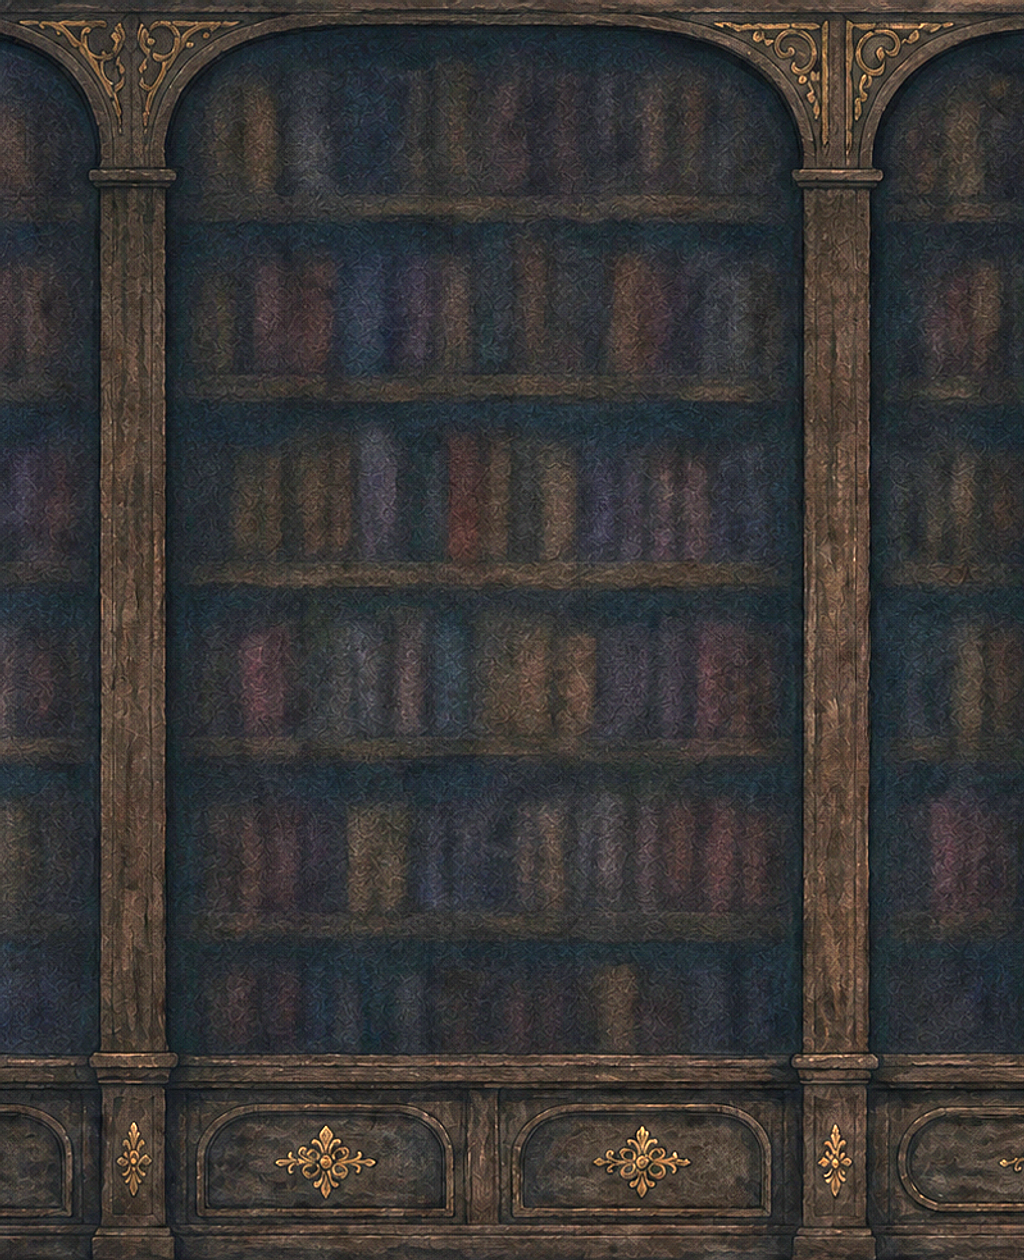
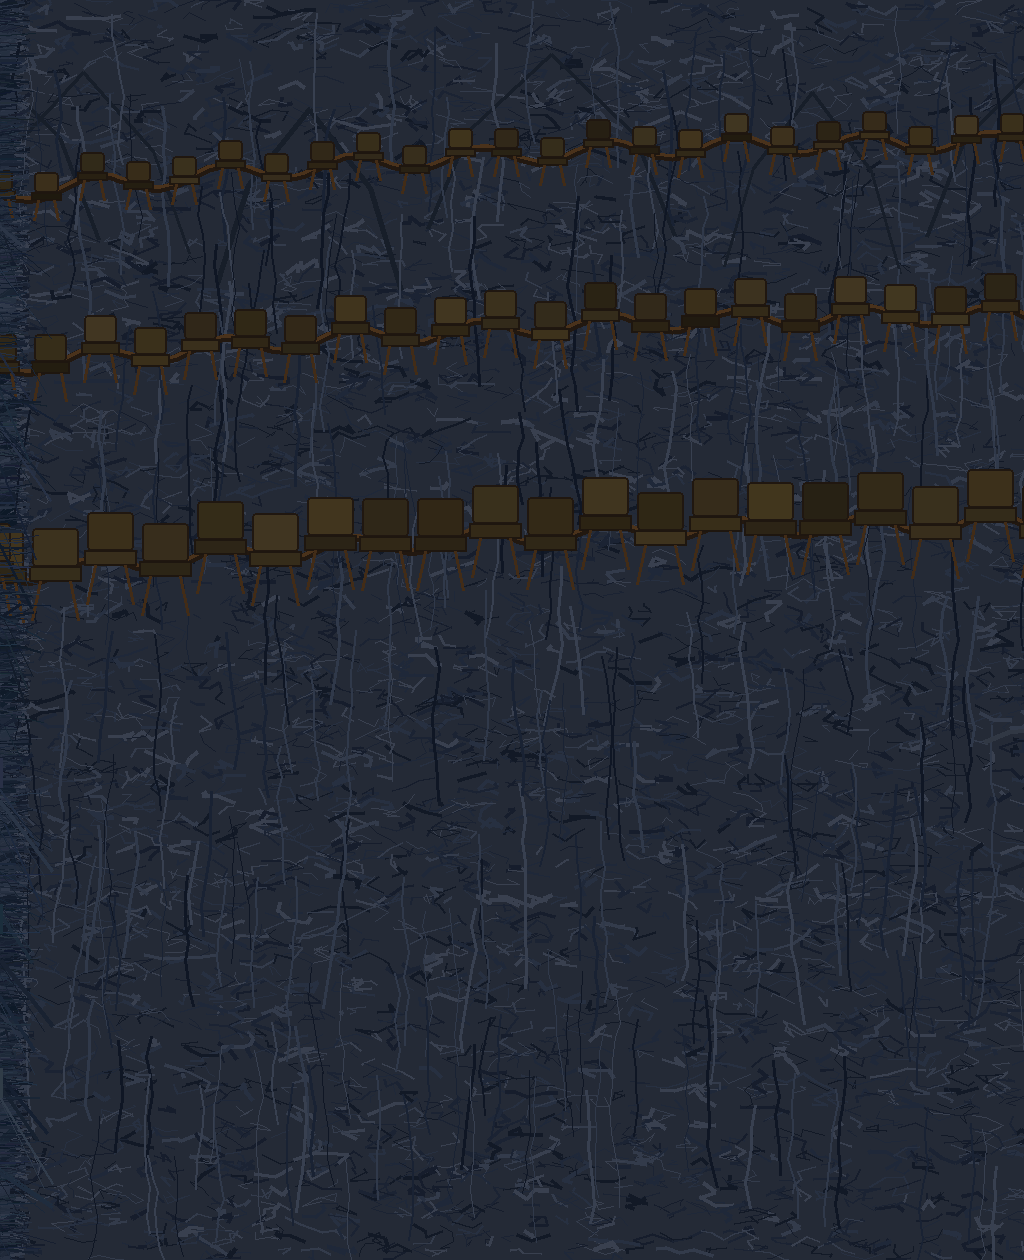
R5-T1 · Posten 2, 3 und 5: der Augen-Boden, die Bühne, die gemessene Reserve
POSTEN 2 · das Gesicht kämpft sichtbar (Kokis Entscheid vom 23.08.)
Die Kritzel-Schichten und der Wischer tragen eine UMGEKEHRTE Geometrie-Maske:
gezeichnet wird überall ausser über der Augenpartie. Der Boden wächst mit dem
Wischen stufenlos von den gemessenen Augen-Halbachsen auf die ganze Fläche.
Gemessen statt gesetzt: die Kreide der zwanzig Kampf-Zellen ist ausgezählt, ihr
Spaltenprofil ist zweigipflig (0,35–0,45 und 0,60–0,70 — die zwei Augen).
⚠ DREI ANLÄUFE, DREI PANELS, KEIN 2:0 — Einzelheiten im Report §2.

POSTEN 3 · die Bühne kommt ins Spiel (AQ13C7, Wareneingang 23.08.)
Neuer Zweig `--import-buehne`: `l1_p4_stage.png` (2048×1260) ist das Wandpaar
der Arena als EIN Blatt und ersetzt `l1_p4_a`/`l1_p4_b` (je 1024×1260).
DEAD_ART 54 → 54. Das Band wird NICHT angefasst (D-658). Zwei blinde Leser,
Reihenfolgen getauscht: 2:0 »ein gemalter Ort«, 2:0 »keine störende Naht«.

POSTEN 5 · D-657 gemessen und mit einem Befehl versehen
Neuer Modus `--reserve`: vier der fünf alten Kreide-Stems tragen Malerei unter
der 180er-Reserve (150,08 / 150,08 / 173,85 / 175,86); die zwanzig neuen
Körper-Stems keiner (181,07–189,75).

Tore: typecheck · lint · game-paint 1436/71 · selftest 33/33 ·
check-png-identity OK · check-paint-art OK, DEAD_ART 54.

diff --git a/packages/game-paint/src/PaintScene.ts b/packages/game-paint/src/PaintScene.ts
@@ -545,6 +545,72 @@ const SCRIBBLE_ALPHA = 0.72;
 /** Die Schicht, die als Nächstes drankommt, liegt heller — das ist der ganze
  *  Hinweis, den das Kind braucht, worauf sein Wischen zielt. */
 const SCRIBBLE_TOP_ALPHA = 0.95;
+
+/* ── R5-T1 · DER AUGEN-BODEN: DAS GESICHT KÄMPFT SICHTBAR ────────────────────
+ *
+ * BEFUND, den zwei Bahnen unabhängig gemessen haben: der Boss liest in
+ * Spielgröße nicht als Gegner, weil man sein Gesicht nicht sieht. Es IST gemalt
+ * — AQ13B4 liefert eine Gesichtsquote von 0,58–0,92 je Zelle, und in
+ * Handwerksgröße erkennen blinde Leser 2:0 zwei Augen, zwei Brauen, einen Mund
+ * (H6 §6 / D-662). Was fehlt, ist die INSZENIERUNG: die Kritzel-Schichten
+ * liegen mit 0,72 bzw. 0,95 Deckung darüber. F10s Panel hat denselben Grund von
+ * der anderen Seite getroffen (D-644: ein Gesichts-Ausschnitt als Marke wurde
+ * 0:2 abgelehnt, weil das Kind dieses Gesicht auf der Bühne nie gesehen hat).
+ *
+ * KOKIS ENTSCHEID (23.08., wörtlich bindend): das Gesicht WÄCHST mit dem
+ * Wischen — Schicht für Schicht freier, im Sieg ganz frei —, aber **Augen und
+ * Brauen sind ab dem Betreten der Arena IMMER lesbar**: die Kritzel liegen UM
+ * die Augenpartie, nie darüber. R193: der Blick ist das Gegner-Signal.
+ *
+ * DIE ZAHLEN SIND GEMESSEN, NICHT GESETZT. Über alle zwanzig Kampf-Zellen ist
+ * die Kreide (L > 240, S < 0,10) innerhalb der Schreibfläche ausgezählt und auf
+ * die Fläche normiert worden. Das Spaltenprofil ist deutlich ZWEIGIPFLIG — die
+ * zwei Augen — mit Gipfeln bei 0,35–0,45 und 0,60–0,70 und Rändern bei 0,25 und
+ * 0,80; das Zeilenprofil trägt 95 % seiner Kreide zwischen 0,20 und 0,80, mit
+ * dem Augen-Gipfel bei 0,40–0,55 und einem zweiten (dem Mund) bei 0,65–0,75.
+ * Der Boden deckt deshalb die Spalten 0,24–0,80 und die Zeilen 0,28–0,62.
+ *
+ * WARUM EINE ELLIPSE UND KEIN RECHTECK: ein Rechteck hat Ecken, und Ecken lesen
+ * sich als Aufkleber — dieselbe Klasse, an der F10s erste Marke gescheitert ist.
+ * Eine Ellipse liest sich als das, was sie erzählt: hier ist gewischt worden.
+ */
+/** Mitte des Augen-Bodens, als Anteil der Schreibfläche (0,0 = links oben). */
+const FACE_FLOOR_CX = 0.52, FACE_FLOOR_CY = 0.45;
+/** Halbachsen des Bodens. Sie decken Spalten 0,00–1,00 und Zeilen 0,07–0,83 der
+ *  Schreibfläche — also beide Augen-Gipfel (Spalten 0,35–0,45 und 0,60–0,70),
+ *  den Zeilen-Gipfel der Augen (0,40–0,55) und den zweiten, tieferen Gipfel, an
+ *  dem in den Wirbel-Posen `spiral1`/`spiral2` die Kreide sitzt (0,60–0,65).
+ *
+ *  ★ DIE ZAHL IST AM SCHIRM ENTSCHIEDEN UND BLIND GEPRÜFT, nicht am Profil.
+ *    Fünf Böden sind im laufenden Kampf fotografiert worden, alle am Halt
+ *    »anfang« (3/3 Schichten), dazu ein Kontrollbild ganz ohne Boden:
+ *      ohne Boden    die zwei Augen liegen unter der Kritzelei — der Befund aus
+ *                    H6 §6 und F10 §3, an diesem Stand reproduziert
+ *      0,28 × 0,17   beide Augen sichtbar, aber klein im dunklen Feld
+ *      0,36 × 0,24   Augen mit Pupille und Mund, Kritzelei als Ring darum —
+ *                    ★ BLIND GEPRÜFT UND DURCHGEFALLEN: zwei frische Leser
+ *                    sagen in SPIELGRÖSSE unabhängig »kein Gesicht« (20 % und
+ *                    10 % Sicherheit), Blickrichtung 0:2 nicht bestimmbar
+ *      0,52 × 0,38   die Kritzelei steht am unteren Rand, zwei Augen, eine
+ *                    Braue und ein Mund lesen sich in Spielgröße — GEWÄHLT
+ *      0,62 × 0,46   am deutlichsten von allen, aber die Tafel liest bei 3/3
+ *                    schon fast sauber: sie verliert ihren eigenen Satz »sie
+ *                    ist über und über vollgekritzelt«, und das Wischen hat
+ *                    danach sichtbar nichts mehr wegzunehmen
+ *
+ *  ⚠ WAS DIESER BODEN NICHT LEISTEN KANN, und das ist gemessen: die Kreide der
+ *    Blätter `tafel_scribble1/2/3` sitzt selbst als DICHTER MITTELBLOCK (Zeilen
+ *    0,20–0,80 tragen 95 % von ihr). »Über und über gekritzelt« und »Gesicht
+ *    lesbar« schließen sich mit DIESEN Blättern also aus — je größer der Boden,
+ *    desto sauberer die Tafel. Beide blinden Leser der ersten Fassung haben
+ *    ungefragt dasselbe gemeldet: der Kranz aus Kreide liest sich als
+ *    »Bildfehler«, »Kompressionsartefakte«, »zerrissenes Papier«, »separater
+ *    Layer«. Das ist ein Befund an der KUNST der Kritzel-Blätter und an den
+ *    Architekten geroutet, kein Kompositions-Posten.
+ */
+const FACE_FLOOR_RX = 0.42, FACE_FLOOR_RY = 0.34;
+/** Halbachsen, wenn die letzte Schicht gefallen ist: die ganze Fläche frei. */
+const FACE_FULL_RX = 0.75, FACE_FULL_RY = 0.75;
 /** Die feuchte Spur hinter dem Wischer und ihre Kante. */
 const WIPE_DAMP = 0x2f4a3a;
 const WIPE_EDGE = 0xfff6d8;
@@ -963,6 +1029,12 @@ export class PaintScene extends Phaser.Scene {
   /** R5-W4 · H2 (R50): die drei gebackenen Kritzel-Schichten auf ihrer Fläche.
    *  Leer, bis die erste Tafel gezeichnet wird — `ensureScribbles`. */
   private scribbleImgs: Phaser.GameObjects.Image[] = [];
+  /** Die freie Augenpartie (R5-T1). Eine Graphics-Ellipse, die als UMGEKEHRTE
+   *  Geometrie-Maske auf den Kritzel-Schichten und dem Wischer liegt: gezeichnet
+   *  wird überall AUSSER in ihr. Sie liegt in Welt-Koordinaten und trägt die
+   *  Drehung der Tafel mit, sonst wandert sie, sobald das Wesen kippt. */
+  private faceHoleG?: Phaser.GameObjects.Graphics;
+  private faceMask?: Phaser.Display.Masks.GeometryMask;
   /** R5-W4 · H2 (D-39): die ✕-Schilder dieser Phase. In der Arena bleiben sie
    *  verborgen, bis die Tafel sauber ist; überall sonst hängen sie von Anfang an. */
   private exitImgs: Phaser.GameObjects.Image[] = [];
@@ -3800,11 +3872,19 @@ export class PaintScene extends Phaser.Scene {
       return;
     }
     this.ensureScribbles();
-
     // Die oberste noch stehende Schicht ist die, die als NÄCHSTES weggeht —
     // sie liegt heller, damit das Kind sieht, worauf sein Wischen zielt.
     const wiping = g.state === "wipe";
     const t = wiping ? Math.max(0, Math.min(1, g.timer / WIPE_TICKS)) : 0;
+
+    // ── DER AUGEN-BODEN (R5-T1) ───────────────────────────────────────────
+    // Er wächst mit dem Wischen: bei voller Anzeige deckt er Augen und Brauen,
+    // mit jeder gefallenen Schicht gibt er mehr frei, und wenn die letzte fällt,
+    // steht die Tafel ohnehin ohne Kritzelei da. `frei` ist der Anteil der
+    // Schichten, die schon weg sind — beim Wischen läuft er stufenlos weiter,
+    // damit der Boden mit der Bewegung wächst statt zu springen.
+    const frei = Math.max(0, Math.min(1, (total - left + (wiping ? t : 0)) / total));
+    this.renderFaceFloor(slate, img.rotation, img.flipX, frei);
 
     for (let i = 0; i < this.scribbleImgs.length; i++) {
       const s = this.scribbleImgs[i]!;
@@ -3824,6 +3904,9 @@ export class PaintScene extends Phaser.Scene {
       s.setFlipX(img.flipX);
       s.setRotation(img.rotation);
       s.setAlpha((top ? SCRIBBLE_TOP_ALPHA : SCRIBBLE_ALPHA) * img.alpha);
+      // Die Kritzel liegen UM die Augenpartie, nie darüber (Kokis Entscheid).
+      // Die Maske ist umgekehrt: gezeichnet wird alles AUSSER der Ellipse.
+      if (this.faceMask && s.mask !== this.faceMask) s.setMask(this.faceMask);
       // Der Wischer nimmt NUR die oberste Schicht, und er nimmt sie von links
       // nach rechts — dieselbe Richtung, in der ein Kind eine Tafel wischt.
       // Der Schnitt läuft in TEXTUR-Koordinaten, also in der Auflösung des
@@ -3837,6 +3920,70 @@ export class PaintScene extends Phaser.Scene {
     }
 
     this.renderWipe(wiping, t, slate);
+  }
+
+  /**
+   * ── DER AUGEN-BODEN, GEZEICHNET (R5-T1) ────────────────────────────────────
+   *
+   * Eine Ellipse über der Augenpartie der Schreibfläche, als UMGEKEHRTE
+   * Geometrie-Maske auf den Kritzel-Schichten und dem Wischer: gezeichnet wird
+   * überall AUSSER in ihr. Damit liegen die Kritzel um die Augen herum statt
+   * darüber, und das Kind sieht ab dem ersten Bild der Arena, wer ihm da
+   * gegenübersteht.
+   *
+   * Sie wächst mit `frei` (Anteil der schon gefallenen Schichten) von den
+   * gemessenen Augen-Halbachsen auf die ganze Fläche — das ist Kokis
+   * »das Gesicht wächst mit dem Wischen« als eine Zeile Interpolation.
+   *
+   * ⚠ SIE MUSS SICH MITDREHEN. Die Tafel kippt in ihren Flugposen; eine
+   *   achsenparallele Ellipse liefe dann über den Rahmen. Gezeichnet wird
+   *   deshalb im EIGENEN Koordinatensystem der Graphics (Ellipse um 0,0), und
+   *   Lage und Drehung sitzen am Objekt.
+   *
+   * ⚠ UND SIE DARF DEN WISCHER NICHT AUSSPAREN, SONDERN MUSS IHN MITNEHMEN:
+   *   die feuchte Spur ist Kritzel-Material, kein Gesicht. Sie trägt dieselbe
+   *   Maske.
+   */
+  private renderFaceFloor(
+    slate: { x: number; y: number; w: number; h: number },
+    rotation: number,
+    flipX: boolean,
+    frei: number,
+  ): void {
+    if (!this.faceHoleG) {
+      // Die Graphics wird NIE gezeichnet — sie ist nur die Form der Maske.
+      // `setVisible(false)` würde die Maske mit abschalten, also bleibt sie
+      // sichtbar und wird über die Tiefe aus dem Bild gehalten.
+      this.faceHoleG = this.add.graphics();
+      this.faceHoleG.setDepth(-1000);
+      this.faceMask = this.faceHoleG.createGeometryMask();
+      this.faceMask.invertAlpha = true;
+    }
+    const rx = (FACE_FLOOR_RX + (FACE_FULL_RX - FACE_FLOOR_RX) * frei) * slate.w;
+    const ry = (FACE_FLOOR_RY + (FACE_FULL_RY - FACE_FLOOR_RY) * frei) * slate.h;
+    // Die Mitte des Bodens sitzt als ANTEIL der Fläche, gerechnet von deren
+    // linker oberer Ecke — dieselbe Rechnung wie `slateRect`, nur eine Ebene
+    // tiefer. Bei gespiegeltem Wesen spiegelt sie mit.
+    const fx = (flipX ? 1 - FACE_FLOOR_CX : FACE_FLOOR_CX) - 0.5;
+    const ox = fx * slate.w;
+    const oy = (FACE_FLOOR_CY - 0.5) * slate.h;
+    const cos = Math.cos(rotation), sin = Math.sin(rotation);
+    const G = this.faceHoleG;
+    G.clear();
+    G.fillStyle(0xffffff, 1);
+    G.setPosition(slate.x + ox * cos - oy * sin, slate.y + ox * sin + oy * cos);
+    G.setRotation(rotation);
+    // ⚠ KEINE ELLIPSE, UND DAS IST GEMESSEN. Die erste Fassung war eine, und
+    //   VIER von vier blinden Lesern haben ungefragt dasselbe gemeldet: die
+    //   Kreide, die dann in den vier ECKEN der Tafel stehen bleibt, liest sich
+    //   als »Bildfehler«, »Aufkleber«, »unfertige Grafikreste« (Sicherheiten
+    //   70–80 %). Eine Ellipse in einem Rechteck LÄSST Ecken übrig, und ein
+    //   Klecks in einer Ecke hat keine Geschichte. Ein eingerücktes Rechteck
+    //   mit runden Ecken lässt statt dessen ein umlaufendes BAND stehen — und
+    //   ein Band am Rand liest sich als das, was es erzählt: hier ist in der
+    //   Mitte gewischt worden.
+    const eck = Math.min(rx, ry) * 0.55;
+    G.fillRoundedRect(-rx, -ry, rx * 2, ry * 2, eck);
   }
 
   /**
@@ -3856,6 +4003,9 @@ export class PaintScene extends Phaser.Scene {
     this.knotG.clear();
     if (!wiping || this.cfg.reducedMotion) return;
     this.knotG.setDepth(SCRIBBLE_DEPTH + 0.01);
+    // Die feuchte Spur ist Kritzel-Material, kein Gesicht: sie trägt dieselbe
+    // umgekehrte Maske wie die Schichten (R5-T1).
+    if (this.faceMask && this.knotG.mask !== this.faceMask) this.knotG.setMask(this.faceMask);
     const G = this.knotG;
     const x0 = slate.x - slate.w / 2;
     const yTop = slate.y - slate.h / 2;
